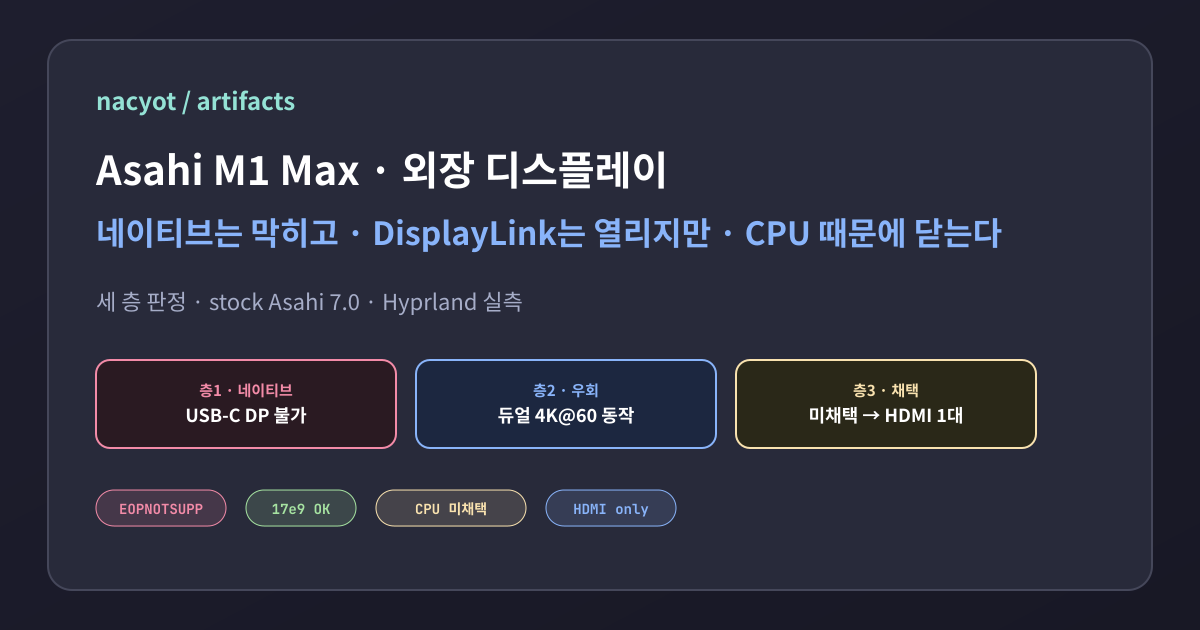
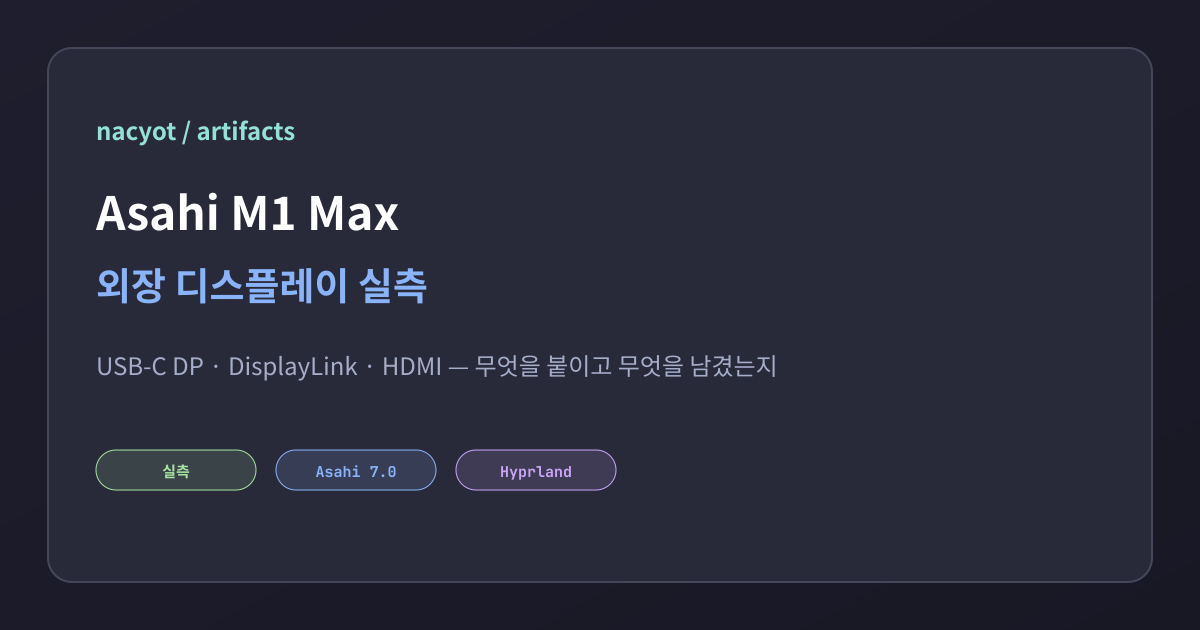
Soften DisplayLink article hero and framing
Lead with the investigation question instead of stacking the verdict
up front; match OG/landing titles to the calmer tone.

diff --git a/displaylink-asahi-m1/index.html b/displaylink-asahi-m1/index.html
@@ -3,8 +3,8 @@
 <head>
 <meta charset="utf-8">
 <meta name="viewport" content="width=device-width, initial-scale=1">
-<title>Asahi M1 Max — 외장 2대는 되지만, DisplayLink는 안 쓰기로 함</title>
-<meta name="description" content="Apple M1 Max + stock Asahi에서 USB-C DP는 불가, HDMI+DisplayLink로 듀얼 4K@60은 동작했다. 다만 DisplayLinkManager CPU 부하가 실사용에 너무 커서 채택하지 않기로 한 실측 정리.">
+<title>Asahi M1 Max 외장 디스플레이 실측</title>
+<meta name="description" content="Apple M1 Max + stock Asahi에서 USB-C DP, DisplayLink, HDMI 경로를 실측한 정리. 네이티브 실패 지점, 우회 스택, 실사용으로 무엇을 남겼는지.">
 <meta name="author" content="nacyot">
 <meta name="keywords" content="Asahi Linux, Apple M1 Max, DisplayLink, EVDI, Hyprland, USB-C DisplayPort, external monitor, aarch64">
 <meta name="robots" content="index,follow">
@@ -14,13 +14,13 @@
 <meta property="og:site_name" content="nacyot / artifacts">
 <meta property="og:locale" content="ko_KR">
 <meta property="og:url" content="https://nacyot.github.io/artifacts/displaylink-asahi-m1/">
-<meta property="og:title" content="Asahi M1 Max — 외장 2대는 되지만, DisplayLink는 안 쓰기로 함">
-<meta property="og:description" content="HDMI+DisplayLink로 듀얼 4K@60은 된다. 다만 CPU 부하가 너무 커서 실사용 채택 안 함 — M1 Max Asahi 실측.">
+<meta property="og:title" content="Asahi M1 Max 외장 디스플레이 실측">
+<meta property="og:description" content="USB-C DP · DisplayLink · HDMI — stock Asahi에서 무엇을 붙이고 무엇을 남겼는지. M1 Max · Hyprland 실측.">
 <meta property="og:image" content="https://nacyot.github.io/artifacts/displaylink-asahi-m1/og.png">
 <meta property="og:image:type" content="image/png">
 <meta property="og:image:width" content="1200">
 <meta property="og:image:height" content="630">
-<meta property="og:image:alt" content="Asahi M1 Max 외장 디스플레이 — 네이티브 불가, DisplayLink 동작, CPU 미채택 → HDMI 1대">
+<meta property="og:image:alt" content="Asahi M1 Max 외장 디스플레이 실측 — USB-C DP, DisplayLink, HDMI">
 <meta property="article:published_time" content="2026-07-10">
 <meta property="article:modified_time" content="2026-07-10">
 <meta property="article:section" content="Linux">
@@ -29,16 +29,16 @@
 <meta property="article:tag" content="M1 Max">
 <meta property="article:tag" content="Hyprland">
 <meta name="twitter:card" content="summary_large_image">
-<meta name="twitter:title" content="Asahi M1 Max — 외장 2대는 되지만, DisplayLink는 안 쓰기로 함">
-<meta name="twitter:description" content="듀얼 4K@60은 동작. CPU 부하 때문에 실사용 채택 안 함 — Asahi M1 Max 실측.">
+<meta name="twitter:title" content="Asahi M1 Max 외장 디스플레이 실측">
+<meta name="twitter:description" content="USB-C DP · DisplayLink · HDMI — stock Asahi에서 무엇을 붙이고 무엇을 남겼는지.">
 <meta name="twitter:image" content="https://nacyot.github.io/artifacts/displaylink-asahi-m1/og.png">
-<meta name="twitter:image:alt" content="Asahi M1 Max 외장 디스플레이 — 네이티브 불가, DisplayLink 동작, CPU 미채택 → HDMI 1대">
+<meta name="twitter:image:alt" content="Asahi M1 Max 외장 디스플레이 실측 — USB-C DP, DisplayLink, HDMI">
 <script type="application/ld+json">
 {
   "@context": "https://schema.org",
   "@type": "TechArticle",
-  "headline": "Asahi M1 Max — 외장 2대는 되지만, DisplayLink는 안 쓰기로 함",
-  "description": "HDMI+DisplayLink로 듀얼 4K@60은 동작했으나 DisplayLinkManager CPU 부하가 실사용에 과도해 채택하지 않기로 한 Asahi M1 Max 실측 정리.",
+  "headline": "Asahi M1 Max 외장 디스플레이 실측",
+  "description": "Apple M1 Max + stock Asahi에서 USB-C DP, DisplayLink, HDMI 경로를 실측한 정리. 네이티브 실패 지점, 우회 스택, 실사용 구성.",
   "url": "https://nacyot.github.io/artifacts/displaylink-asahi-m1/",
   "image": "https://nacyot.github.io/artifacts/displaylink-asahi-m1/og.png",
   "datePublished": "2026-07-10",
@@ -109,7 +109,14 @@
   ul{margin:.4rem 0 .4rem 1.1rem;padding:0}
   li{margin:.28rem 0}
   ol{margin:.4rem 0 .4rem 1.3rem;padding:0}
-  .meta-row{display:flex;flex-wrap:wrap;gap:.45rem;margin:.4rem 0 1.2rem}
+  .meta-row{display:flex;flex-wrap:wrap;gap:.45rem;margin:.35rem 0 1.1rem}
+  .lede{color:var(--fg);margin:0;font-size:1.02rem;line-height:1.75}
+  .outline{display:grid;grid-template-columns:repeat(3,1fr);gap:.75rem;margin:1.2rem 0 0}
+  @media(max-width:680px){.outline{grid-template-columns:1fr}}
+  .outline .step{background:var(--card);border:1px solid var(--bd);border-radius:10px;padding:.85rem 1rem}
+  .outline .step .n{font-size:11px;font-weight:700;letter-spacing:.04em;color:var(--mut);text-transform:uppercase;margin:0 0 .35rem}
+  .outline .step p{margin:0;font-size:13.5px;color:var(--fg);line-height:1.55}
+  .outline .step strong{color:#fff;font-weight:600}
 </style>
 </head>
 <body>
@@ -117,45 +124,40 @@
 
 <p class="crumb"><a href="../">← nacyot / artifacts</a></p>
 
-<h1>Asahi M1 Max — 외장 2대는 되지만, DisplayLink는 안 쓰기로 함</h1>
-<p class="sub">Apple M1 Max 14" · stock linux-asahi 7.0 · Hyprland(Aquamarine) · 실측 기반 정리</p>
+<h1>Asahi M1 Max 외장 디스플레이 실측</h1>
+<p class="sub">USB-C DP · DisplayLink · HDMI — stock linux-asahi 7.0 · Hyprland에서 무엇을 붙이고 무엇을 남겼는지</p>
 <div class="meta-row">
   <span class="tag t-ok">실측</span>
-  <span class="tag t-warn">채택 안 함</span>
   <span class="tag t-doc">Asahi</span>
   <span class="tag t-doc">DisplayLink</span>
   <span class="tag t-doc">Hyprland</span>
 </div>
 
 <div class="card">
-<p class="big">핵심 한 줄: <em class="hi">기술적으로는 HDMI + DisplayLink로 외장 2대(듀얼 4K@60)가 된다. 실사용 CPU 부하가 너무 커서 DisplayLink는 쓰지 않기로 했다.</em></p>
-<p style="margin:.6rem 0 0">USB-C DisplayPort는 stock Asahi에서 <code>atcphy_mux_set</code> → <b>EOPNOTSUPP</b>로 막힌다(케이블·모니터 문제 아님). 우회인 DisplayLink(EVDI)는 <b>화면이 나오고 배치까지 된다</b>. 다만 <code>DisplayLinkManager</code>의 USB 전송 경로가 CPU를 과도하게 써서, 이 머신 실사용 구성에서는 <b>본체 HDMI 1대(+ 내장 패널)</b>로 남기기로 했다.</p>
+<p class="lede">목표는 외장 모니터 <b>2대</b>였다. macOS에서는 되던 USB-C 경로가 Asahi stock에서는 안 붙었고, 케이블·독·칩을 바꿔 가며 원인을 갈랐다. 이 글은 그 과정에서 확인한 <b>네이티브 경로</b>, <b>DisplayLink 우회</b>, 그리고 일상 구성으로 무엇을 남겼는지를 같은 머신 실측으로 정리한 기록이다.</p>
 </div>
 
-<div class="stat">
-  <div><b>3</b><span>동시 모니터 실측</span></div>
-  <div><b>4K@60</b><span>×2 외장 (기술 OK)</span></div>
-  <div><b>CPU</b><span>부하 과다 → 미채택</span></div>
-  <div><b>HDMI 1</b><span>실사용 결론</span></div>
-</div>
-
-<div class="card" style="margin-top:1.4rem">
-<p class="big" style="margin:0 0 .7rem">이 글의 주제 — 세 층 판정</p>
-<table>
-<tr><th>층</th><th>질문</th><th>답</th></tr>
-<tr><td><b>1. 네이티브</b></td><td>USB-C DP / TB / MST로 외장 2대가 되나?</td><td><span class="tag t-no">안 됨</span> — 하드웨어 파이프는 있으나 stock 드라이버가 DP mux에서 EOPNOTSUPP</td></tr>
-<tr><td><b>2. 우회</b></td><td>DisplayLink(EVDI)로 우회하면 화면이 나오나?</td><td><span class="tag t-ok">됨</span> — 듀얼 4K@60 · 내장 포함 3모니터 · Hyprland 배치까지 실측</td></tr>
-<tr><td><b>3. 채택</b></td><td>그럼 일상에서 쓸 것인가?</td><td><span class="tag t-warn">안 씀</span> — <code>DisplayLinkManager</code> CPU 부하가 실사용 기준 과다 → <b>본체 HDMI 1대</b></td></tr>
-</table>
-<p class="sub" style="margin:.7rem 0 0">한 문장 주제: <em class="hi">“외장 2대는 stock Asahi에서 네이티브로는 막히고, DisplayLink로는 열리지만, 열어도 CPU 값 때문에 닫는다.”</em> 아래 본문은 이 세 층을 증거로 채운다.</p>
+<div class="outline">
+  <div class="step">
+    <p class="n">1 · 네이티브</p>
+    <p><strong>USB-C DP / TB / MST</strong><br>호스트 DP를 쓰는 경로가 stock에서 어디까지 가는지</p>
+  </div>
+  <div class="step">
+    <p class="n">2 · 우회</p>
+    <p><strong>DisplayLink + EVDI</strong><br>USB 그래픽으로 화면·해상도·배치가 되는지</p>
+  </div>
+  <div class="step">
+    <p class="n">3 · 채택</p>
+    <p><strong>실사용 구성</strong><br>동작 여부와 별개로 무엇을 남길지 (§6)</p>
+  </div>
 </div>
 
 <figure>
 <div id="viz-paths"></div>
-<figcaption>그림 1. 외장 출력 경로 세 갈래. 층1 실패(USB-C DP) · 층3 채택(HDMI) · 층2 동작·미채택(DisplayLink).</figcaption>
+<figcaption>그림 1. 외장 출력 경로 세 갈래 — 네이티브 USB-C DP, 본체 HDMI, DisplayLink USB.</figcaption>
 </figure>
 
-<h2>1. 지도 — 무엇이 되고 무엇이 안 되나</h2>
+<h2>1. 무엇이 되고 무엇이 안 되나</h2>
 <table>
 <tr><th>#</th><th>방법</th><th>결과</th><th>비고</th></tr>
 <tr><td>1</td><td><b>내장 HDMI + DisplayLink USB 어댑터</b></td><td><span class="tag t-ok">동작 실측</span> <span class="tag t-warn">미채택</span></td><td>3모니터·듀얼 4K@60까지 됨. <b>CPU 부하로 실사용 포기</b></td></tr>

diff --git a/index.html b/index.html
@@ -50,8 +50,8 @@
 </a>
 
 <a class="item" href="./displaylink-asahi-m1/">
-  <h2>Asahi M1 Max — 외장 2대는 되지만, DisplayLink는 안 쓰기로 함</h2>
-  <p>USB-C DP는 불가, HDMI+DisplayLink로 듀얼 4K@60은 동작. 다만 CPU 부하가 실사용에 과다해 채택하지 않기로 한 실측 정리.</p>
+  <h2>Asahi M1 Max 외장 디스플레이 실측</h2>
+  <p>USB-C DP · DisplayLink · HDMI 경로를 stock Asahi + Hyprland에서 재현·실측한 정리. 무엇이 붙고, 무엇이 남았는지.</p>
   <div class="meta"><span class="tag">실측</span><span class="tag">Asahi</span> Linux · DisplayLink · Hyprland</div>
 </a>
 

diff --git a/README.md b/README.md
@@ -11,7 +11,7 @@
 | 산출물 | 설명 |
 |---|---|
 | [bambu-p1s-scripting](./bambu-p1s-scripting/) | Bambu Lab P1S를 앱 없이 MQTT·FTPS 프로토콜만으로 제어한 실측 정리 + d3.js 시각화 |
-| [displaylink-asahi-m1](./displaylink-asahi-m1/) | Asahi M1 Max: USB-C DP 불가, HDMI+DisplayLink 듀얼 4K@60은 동작하나 CPU 부하로 미채택 |
+| [displaylink-asahi-m1](./displaylink-asahi-m1/) | Asahi M1 Max 외장 디스플레이 실측 — USB-C DP · DisplayLink · HDMI |
 
 ## 구조
 